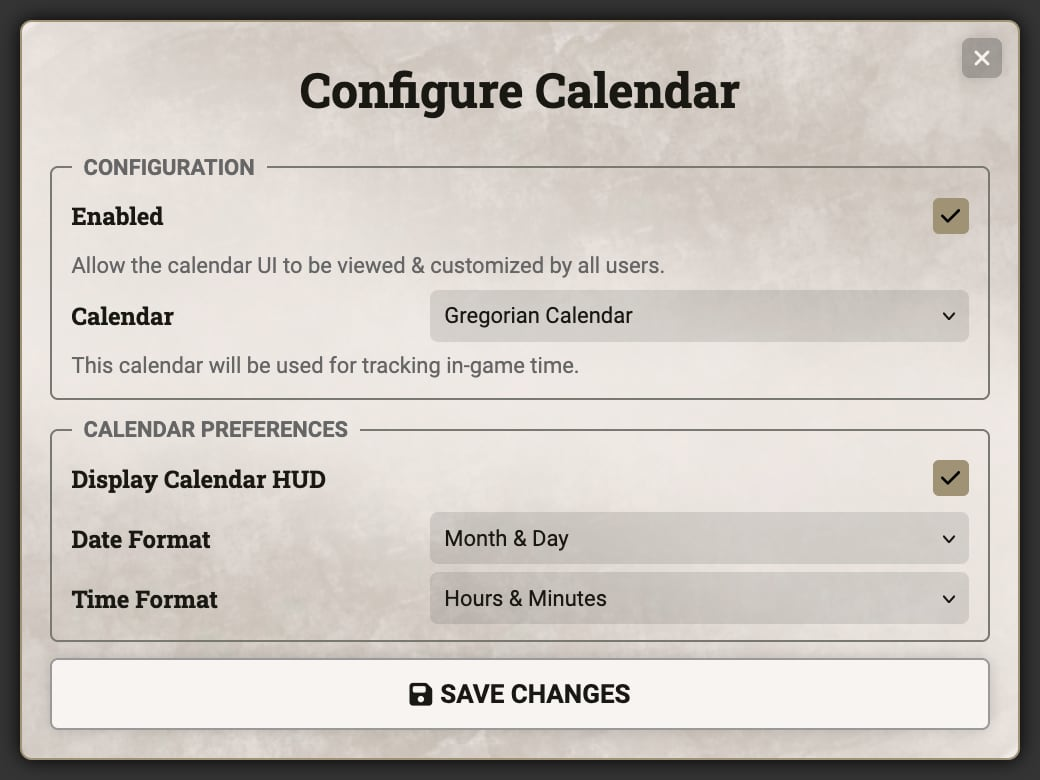
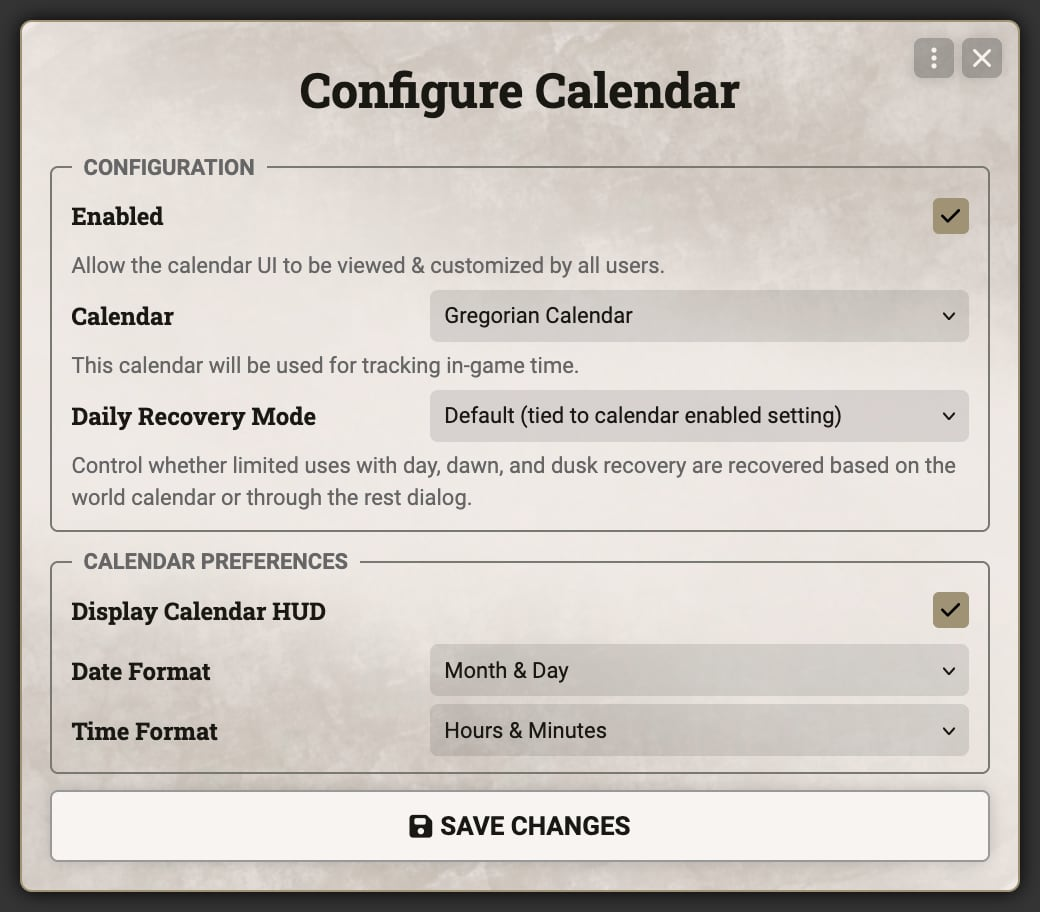
[#7198] Update Calendar docs for 6.0 (#7351)
* [#7198] Update Calendar docs for 6.0

- New screenshots for changed dialogs
- Document item use recovery based on time passage
- Discuss bastion turns advancing with time

* [#7198] Mention calendar's interaction with bastions

* [#7198] Clarify wording

diff --git a/wiki/Calendar.md b/wiki/Calendar.md
@@ -1,8 +1,10 @@
-![Up to date as of 5.3.0](https://img.shields.io/static/v1?label=dnd5e&message=5.3.0&color=informational)
+![Up to date as of 6.0.0](https://img.shields.io/static/v1?label=dnd5e&message=6.0.0&color=informational)
 
 The DnD5e system extends Foundry's calendar system with a new HUD to display the date & time, various configuration options to customize how the calendar is presented, an application for jumping to a specific date, several built-in calendars for prominent 5e game settings, and an API to allow module authors to contribute their own calendars.
 
 ![Calendar HUD, Settings, and Set Date Dialog](https://raw.githubusercontent.com/foundryvtt/dnd5e/publish-wiki/wiki/images/calendar/calendar-summary.jpg)
+
+In addition to the calendar HUD, the system uses the passage of time for several gameplay mechanics. Items and activities with "Dawn", "Dusk", or "Day" usage recovery will automatically regain their uses at sunrise, sunset, or midnight respectively. Also, if the bastion system is enabled, bastion actions will automatically progress towards completion as new days occur.
 
 
 ## Calendar Setup
@@ -21,6 +23,7 @@ The GM's calendar settings has an additional "Configuration" section that isn't 
 
 - *Enabled*: Controls whether the calendar interface as a whole is enabled. If this is unchecked, no user will be able to view the calendar interface or change any of the options under "Calendar Preferences".
 - *Calendar*: Select a specific Calendar that will be used to measure time. The system provides support for the default simplified Gregorian calendar, the Calendar of Greyhawk, the Calendar of Harptos (from the Forgotten Realms), and the Calendar of Khorvaire (from Eberron). **Note:** Changing the calendar requires a restart.
+- *Daily Recovery Mode*: Controls how items with Dawn, Dusk, and Day recovery modes are handled. By default, Calendar Recovery is used if the Calendar is enabled, otherwise Manual Recovery is used, but you may force a particular mode if you prefer. The Calendar Recovery mode means that items will recover uses when time is advances in the calendar. The Manual Recovery mode requires the selection of "New Day" in rest dialogs to trigger time-based usage recovery.
 
 
 ## Calendar HUD
@@ -68,6 +71,15 @@ Outside of the main part of the HUD are a series of buttons. The exact buttons t
 The set date dialog allows for jumping to a specific year, month, and day in the selected Calendar.
 
 ![Set Date Dialog](https://raw.githubusercontent.com/foundryvtt/dnd5e/publish-wiki/wiki/images/calendar/set-date-dialog.jpg)
+
+
+## Bastion Interaction
+
+When both the calendar system and bastion system are enabled bastion turn handling will be tied into the passage of time. When a new day occurs each outstanding bastion order will be progressed by a day, and any completed orders will have their results posted to chat.
+
+![Bastion Configuration](https://raw.githubusercontent.com/foundryvtt/dnd5e/publish-wiki/wiki/images/bastion/bastion-configuration.jpg)
+
+There is also a system for automatic reminders of bastion turns. After the configured bastion turn duration has passed since the last bastion turn, a message will be posted in chat for GM users with a button to trigger a new bastion turn. This button will automatically issue the maintain order to any facilities that have not otherwise been given any orders, and perform any other bastion turn events.
 
 
 ## Calendar API
@@ -144,3 +156,42 @@ Hooks.on("dnd5e.setupCalendar", () => {
 When the calendar system is disabled by a module a message will be displayed in the settings dialog to indicate that and any settings that aren't usable will be disabled.
 
 ![Calendar Settings Disabled](https://raw.githubusercontent.com/foundryvtt/dnd5e/publish-wiki/wiki/images/calendar/calendar-settings-disabled.jpg)
+
+#### Calendar Recovery with Custom Calendars
+
+If a module is providing its own calendar system but still wishes to make use of the system's time-based recovery for item and activity uses, then it should do two things.
+
+First, the Daily Recovery setting should be set to `calendar` so the system doesn't use the manual recovery option.
+
+```javascript
+game.settings.set("dnd5e", "calendarConfig", {
+  ...game.settings.get("dnd5e", "calendarConfig").toObject(),
+  dailyRecovery: "calendar"
+});
+```
+
+Second, the module's subclass of `CalendarData` should provide two new methods for determining sunrise and sunset on any given day. These are necessary for the system to handle the "Dawn" and "Dusk" recovery types:
+
+```javascript
+class MyCalendarData extends foundry.data.CalendarData {
+  /**
+   * Get the sunrise time for a given day.
+   * @param {number|TimeComponents} [time]  The time to use, by default the current world time.
+   * @returns {number}                      Sunrise time in hours.
+   */
+  sunrise(time=game.time.components) {
+    return this.days.hoursPerDay * .25;
+  }
+
+  /* -------------------------------------------- */
+
+  /**
+   * Get the sunset time for a given day.
+   * @param {number|TimeComponents} [time]  The time to use, by default the current world time.
+   * @returns {number}                      Sunset time in hours.
+   */
+  sunset(time=game.time.components) {
+    return this.days.hoursPerDay * .75;
+  }
+}
+```
